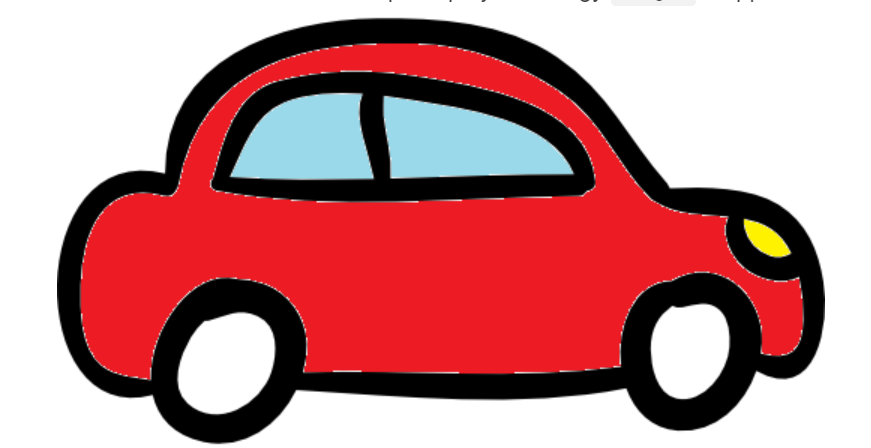
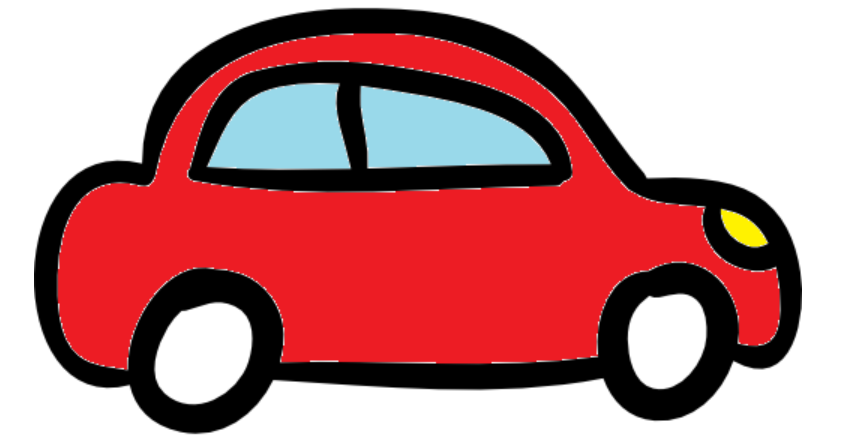
Car class ready

diff --git a/week_08/week_08/Entities/Car.cs b/week_08/week_08/Entities/Car.cs
@@ -13,7 +13,8 @@ namespace week_08.Entities
     {
         protected override void DrawImage(Graphics g)
         {
-            throw new NotImplementedException();
+            Image imageFile = Image.FromFile("Image/car.png");
+            g.DrawImage(imageFile, new Rectangle(0, 0, Width, Height));
         }
     }
 }
